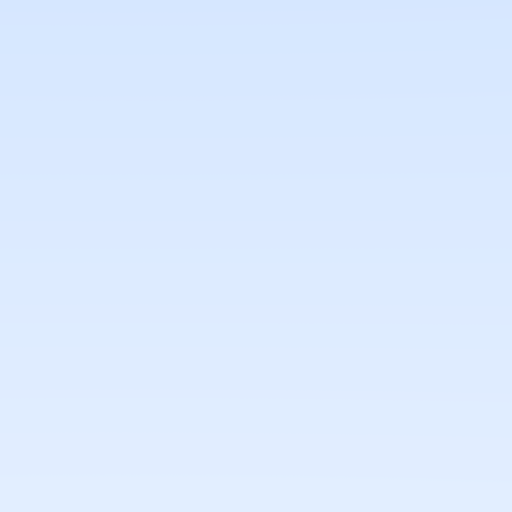
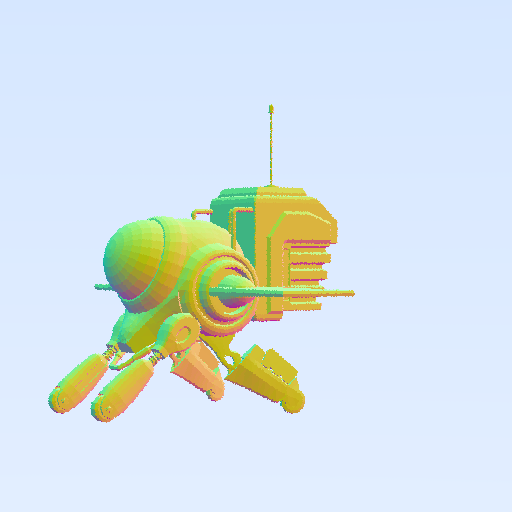
enable validation

Changed region(s): [[0.0938, 0.2188, 0.6875, 0.8438]]

diff --git a/intersect/src/gpu/gpu.rs b/intersect/src/gpu/gpu.rs
@@ -1,7 +1,7 @@
 use std::rc::Rc;
 
 use vk_utils::{
-    device_context::DeviceContext, vulkan::Vulkan, PhysicalDeviceFeatures2KHR,
+    debug_utils, device_context::DeviceContext, vulkan::Vulkan, PhysicalDeviceFeatures2KHR,
     PhysicalDeviceVulkan12Features,
 };
 
@@ -12,7 +12,8 @@ pub struct Gpu {
 
 impl Gpu {
     pub fn new(application_name: &str) -> Self {
-        let vulkan = Vulkan::new(application_name, &[], &[]);
+        let deb = debug_utils::NAME.to_str().unwrap();
+        let vulkan = Vulkan::new(application_name, &["VK_LAYER_KHRONOS_validation"], &[deb]);
 
         let physical_devices = vulkan
             .physical_devices()

diff --git a/intersect/examples/gpu.rs b/intersect/examples/gpu.rs
@@ -134,6 +134,7 @@ fn main() {
         frame: 0,
         bounce: 0,
     };
+    let now = Instant::now();
     command_buffer.begin();
     pipeline.trace(
         width,
@@ -143,6 +144,7 @@ fn main() {
         &mut command_buffer,
     );
     command_buffer.submit();
+    println!("Elapsed: {:?} milliseconds", now.elapsed().as_millis());
 
     let mut transfer_buffer = BufferResource::new_host_visible_storage(
         device_context.clone(),
